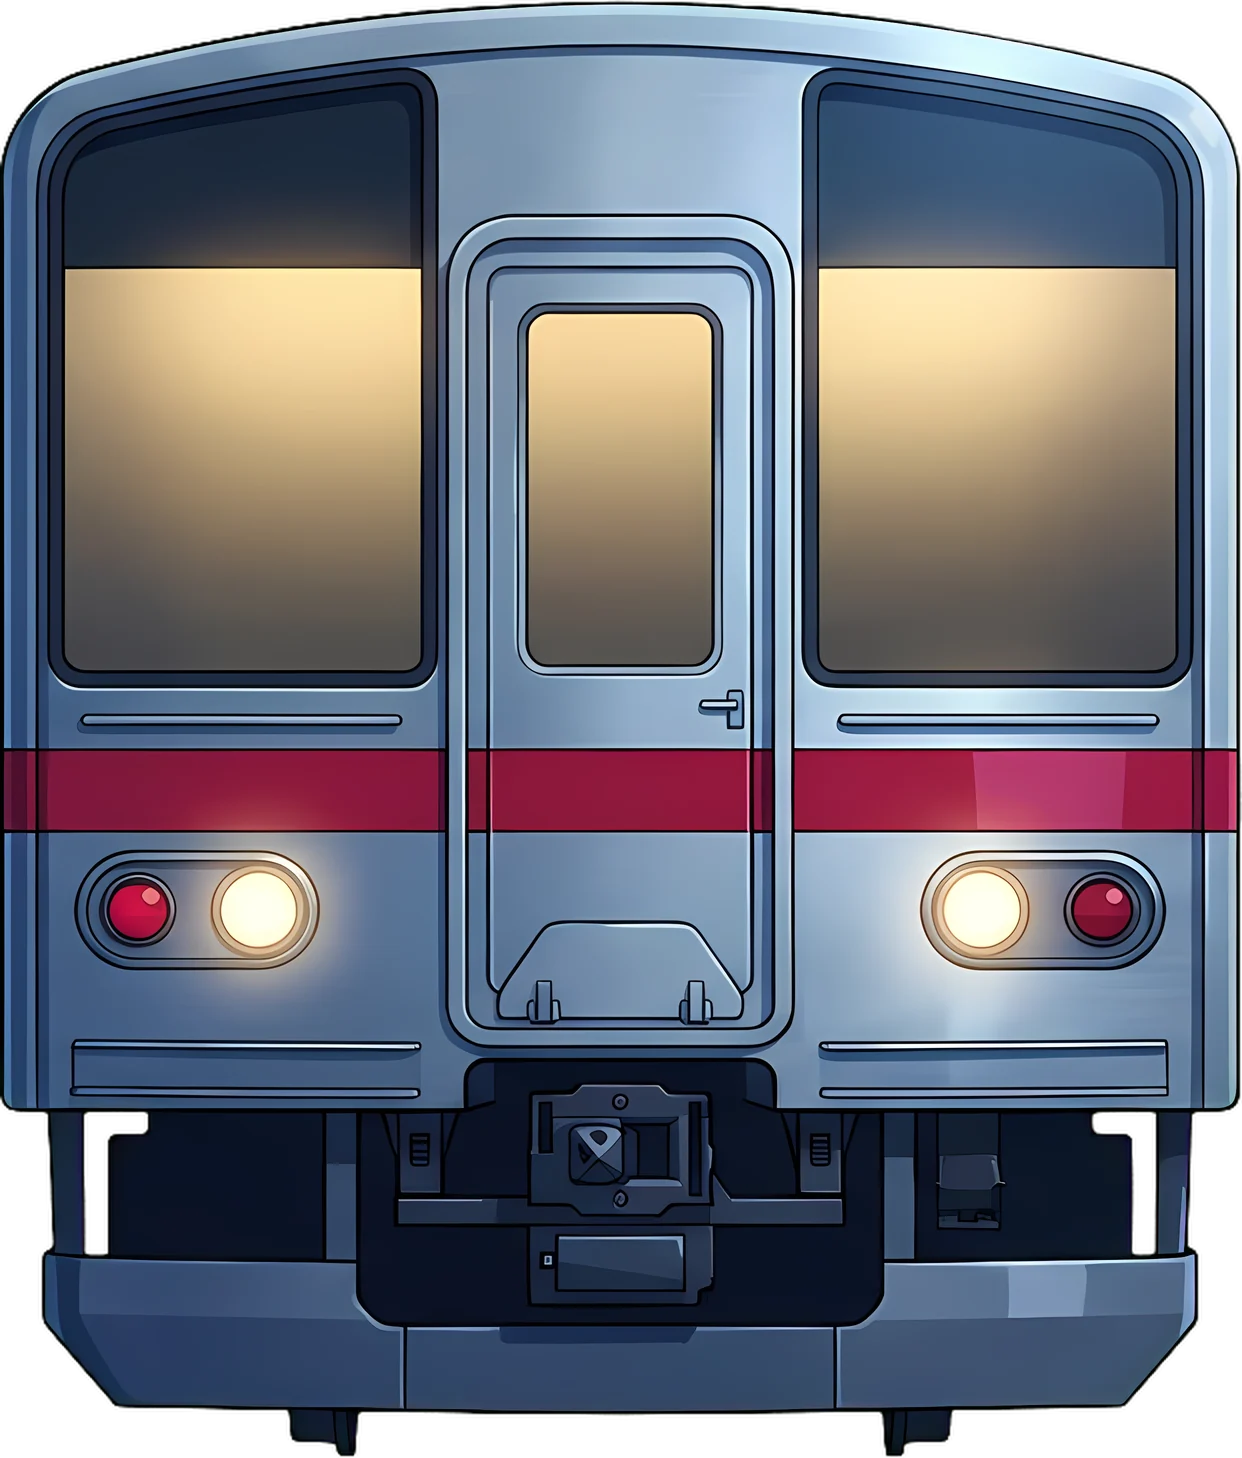
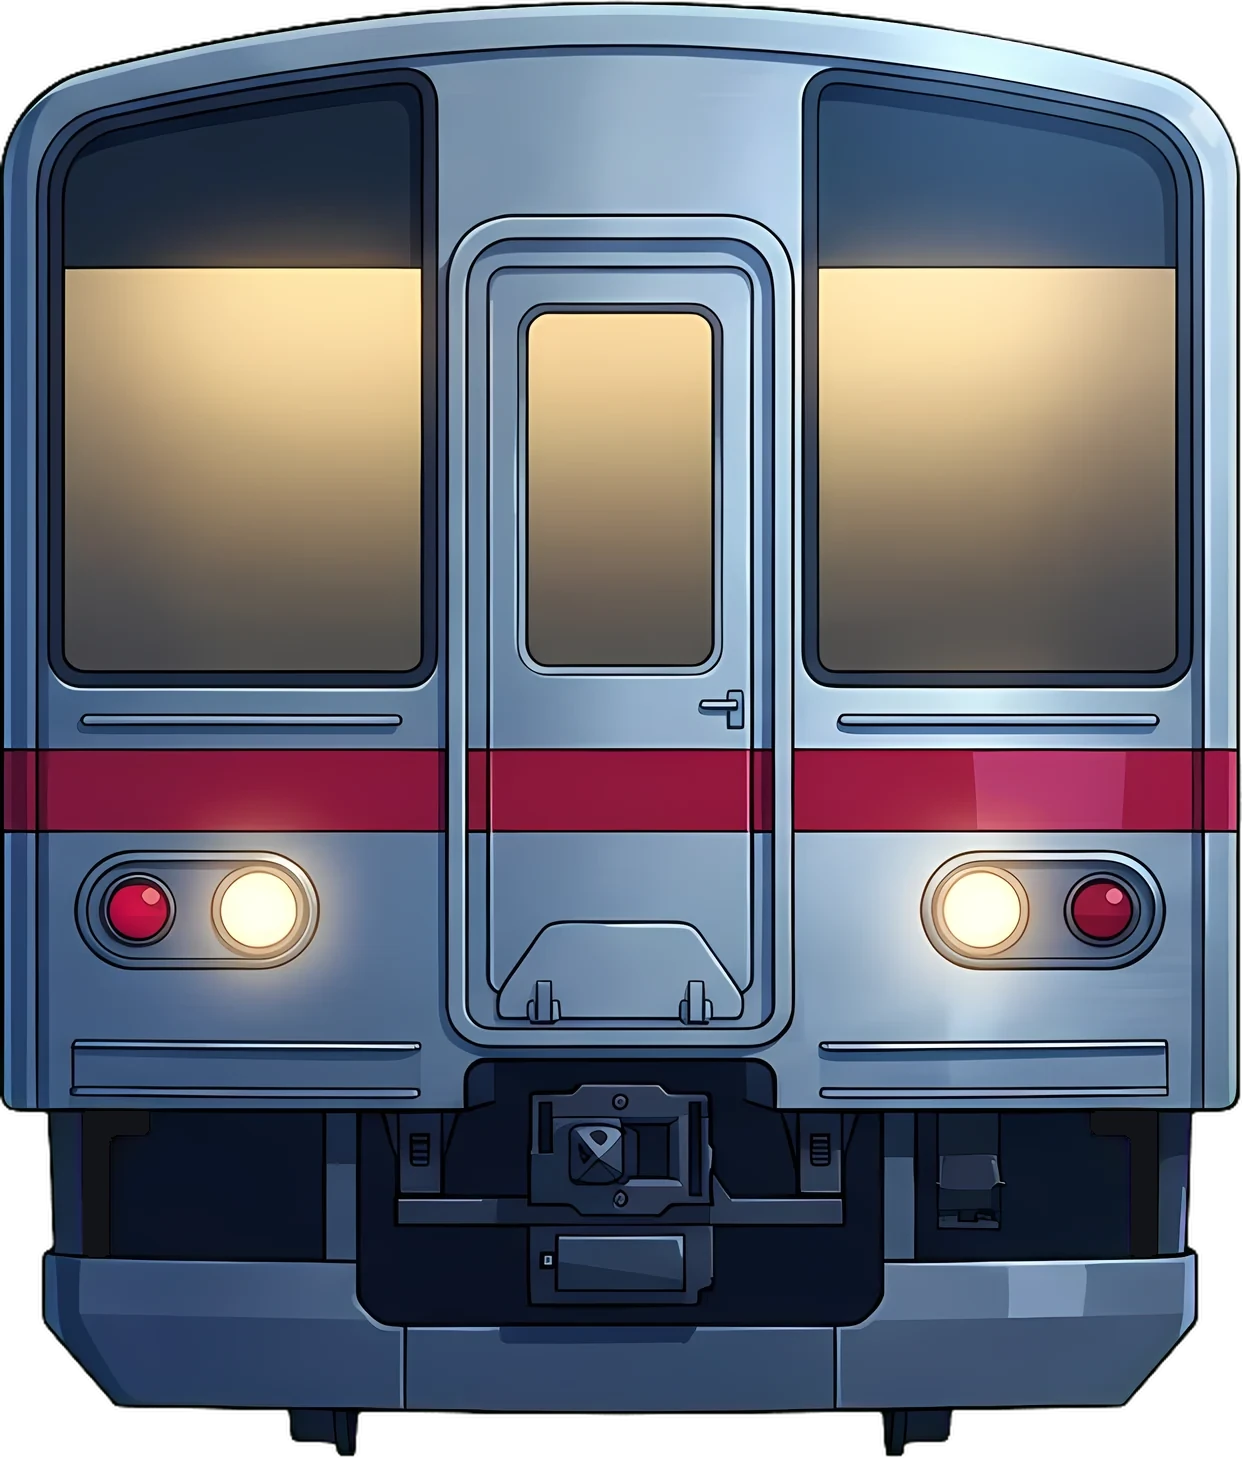
Added original posters inside the train

Changed region(s): [[0.8873, 0.7407, 0.9485, 0.8642], [0.0612, 0.7407, 0.1224, 0.8642]]

diff --git a/DESIGN.md b/DESIGN.md
@@ -170,7 +170,7 @@ From John's research notes (kept verbatim in spirit):
 - **Never make people wait on decoration.** Content builds in underneath the title slam (don't await it). The menu stays up until the next transition covers it (the old screen never flashes back). The full board cascade plays once; coming back is a quick ~0.4s slam.
 - **PRESS START: the train pass-by** (`src/fx/subway.js` + `tunnelWipe`). Headlights glow in the dark tunnel with a rumble and the horn, then the train bursts out and **roars past along the platform in real perspective** (never head-on: John called head-on "lame"). The camera rumbles harder as it gets close and thumps at every wheel set; **no drawn trails** (see the speed paragraph in section 12); its wind blows the **trash off the platform** toward the camera and **rips the title and the posters off the wall**; a white star-flash cuts to the board. ~1.45s, skippable (sound hushes too), instant with reduced motion. Tall screens pan the camera left to catch the track.
   - The train is drawn on a canvas in the platform art's own pixel space (1600x914), on the same camera box as the `<img>`, so it lines up on every screen. Its side is sliced into thin vertical strips scaled by depth (raycaster style); the nose is a cut-out of Nano Banana's car front (`trainnose.webp`).
-  - **The train (Nov 18, John's P5 subway references, used as inspiration only):** a new original car by Nano Banana Pro: blue-tinted brushed steel, crimson band, double doors with rounded windows, **warm light-gold cabin light** glowing through every window (triangle straps on a chrome bar, blue seat backs inside), red lamps over the doors. The side is a seamless door-to-door tile (`train.webp`, the repeat length comes from the texture's own shape); the nose is the matching cab front, keyed (`trainnose.webp`). As it passes, **cel-shaded warm light pools** (three hard bands, brightest at the edge) spill onto the platform from where the windows are (`cabinLight` in `src/fx/subway.js`; window positions read from the art). NEXT STOP uses the matching interior (blue patterned bench for six, steel ends, triangle straps, grab poles, abstract ad frames, warm ceiling light; windows keyed; sign in the big window's lower-left pane, 449-690 x 360-467 on 1408x768). **Every generated image is audited at full size before use** (Nov 18: a first exterior had a strap with no triangle and doubled straps, so it was rejected and regenerated).
+  - **The train (Nov 18, John's P5 subway references, used as inspiration only):** a new original car by Nano Banana Pro: blue-tinted brushed steel, crimson band, double doors with rounded windows, **warm light-gold cabin light** glowing through every window (triangle straps on a chrome bar, blue seat backs inside), red lamps over the doors. The side is a seamless door-to-door tile (`train.webp`, the repeat length comes from the texture's own shape); the nose is the matching cab front, keyed (`trainnose.webp`). As it passes, **cel-shaded warm light pools** (three hard bands, brightest at the edge) spill onto the platform from where the windows are (`cabinLight` in `src/fx/subway.js`; window positions read from the art). NEXT STOP uses the matching interior (blue patterned bench for six, steel ends, triangle straps, grab poles, abstract ad frames, warm ceiling light; windows keyed; sign in the big window's lower-left pane, 449-690 x 360-467 on 1408x768). **Every generated image is audited at full size before use** (Nov 20, John: in NEXT STOP "the little picture frame on the train cart wall... I can see the outside of the train, like there's a hole in it": the window key had also cut holes in both small ad posters, so the tunnel showed through them. Fixed in `interior.webp`: every see-through patch smaller than a real pane is closed, and the two posters are replaced by **original posters in our own style** (John: "make it Persona 5 theme shapes and art... a saying... in theme with our resume"): **TAKE YOUR TIME** (red field, halftone, a black slash, a black star with a red misprint, cut-out ransom tiles in Anton / Bebas / a heavy serif, a white marker underline) and **CONSIDER IT STOLEN** (the calling card's line: black field, red rays, a jagged red burst, a tilted white card, cut-out STOLEN, two yellow stars). Drawn in code with the real brand fonts (an image model would misspell the words), every word auto-fitted inside its poster, each poster fitted to its frame's true inner edge (the right one first ran over its cream rim and looked skinny on that side), lit like the car; the 8 window and door panes are the only see-through parts left. **Every keyed picture was swept for enclosed holes:** the train's nose had two gaps above its bumper where the scene showed through (now the dark underframe), the trash sheet one 11 px speck (closed); the dagger and board are clean, the graffiti's gaps are the insides of its letters, the board's one gap is the real space between its rods. When keying, list every transparent region by size, not only the big ones) (Nov 18: a first exterior had a strap with no triangle and doubled straps, so it was rejected and regenerated).
   - **Trash on the platform** is Nano Banana art (`trash.webp`: newspaper, paper bag, crushed can, coffee cup, red star flyer, wrapper, receipt, paper ball), toon ink with halftone shading, colors muted (no purple). It must look **on** the platform, not pasted: dimmed to the station light, darker with distance, a soft contact shadow, a faint upside-down reflection in the glossy tiles, sized by depth. When it flies, the shadow stays on the floor and the back side shows darker.
     - **It must rest on the floor, never float** (John, Nov 18: it looked "held by an unnatural force"). Measure each piece's **painted** edge, not its cell's (the cells have empty margins that lift the piece off its shadow). **Flat pieces** (newspaper, receipt, flyer, wrapper) **lie down**: turned in the floor's plane, then squashed by the floor's perspective (flatter the farther away), with a tight dark copy just under the edge and no mirror image. **Solid pieces** (can, cup, bag, ball) stand upright with their lowest pixel on the spot, never tilted off their base, and their faint reflection starts exactly where they touch.
 - **CLEARED stamp (signature moment):** only plays when the visitor actually clicked a project link, left, and **came back**. Full-screen: rays, CASE CLOSED bands, giant cut-out stamp slams with a **whip crack** (Queen/Makoto style), flash, ring, confetti, then the stamp zips onto the card with a motion trail and lands with a thunk and sparkle. No "WELCOME BACK" text; the stamp is the transition.
